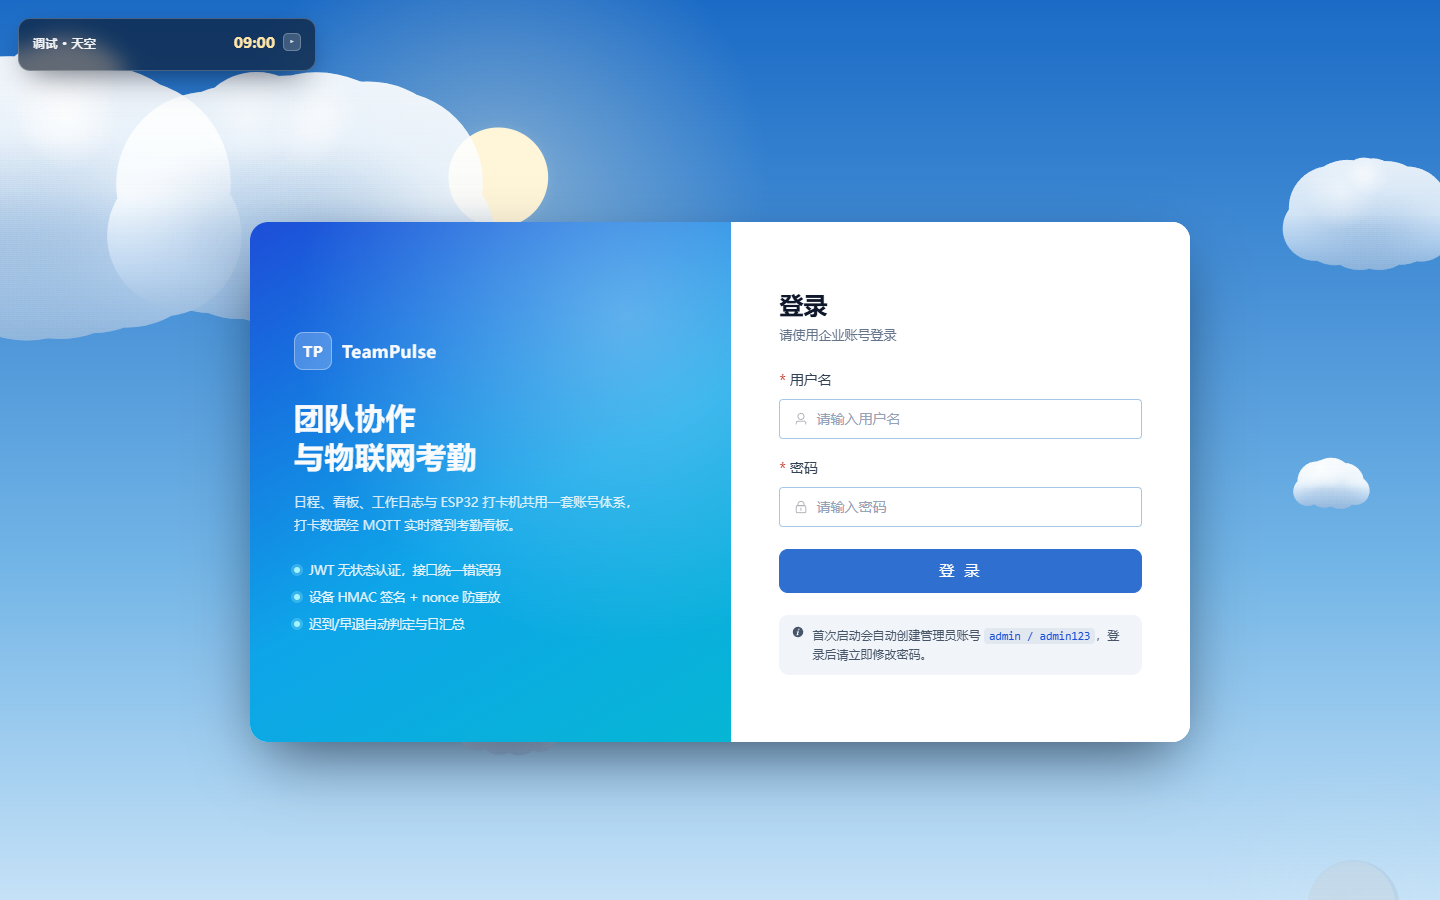
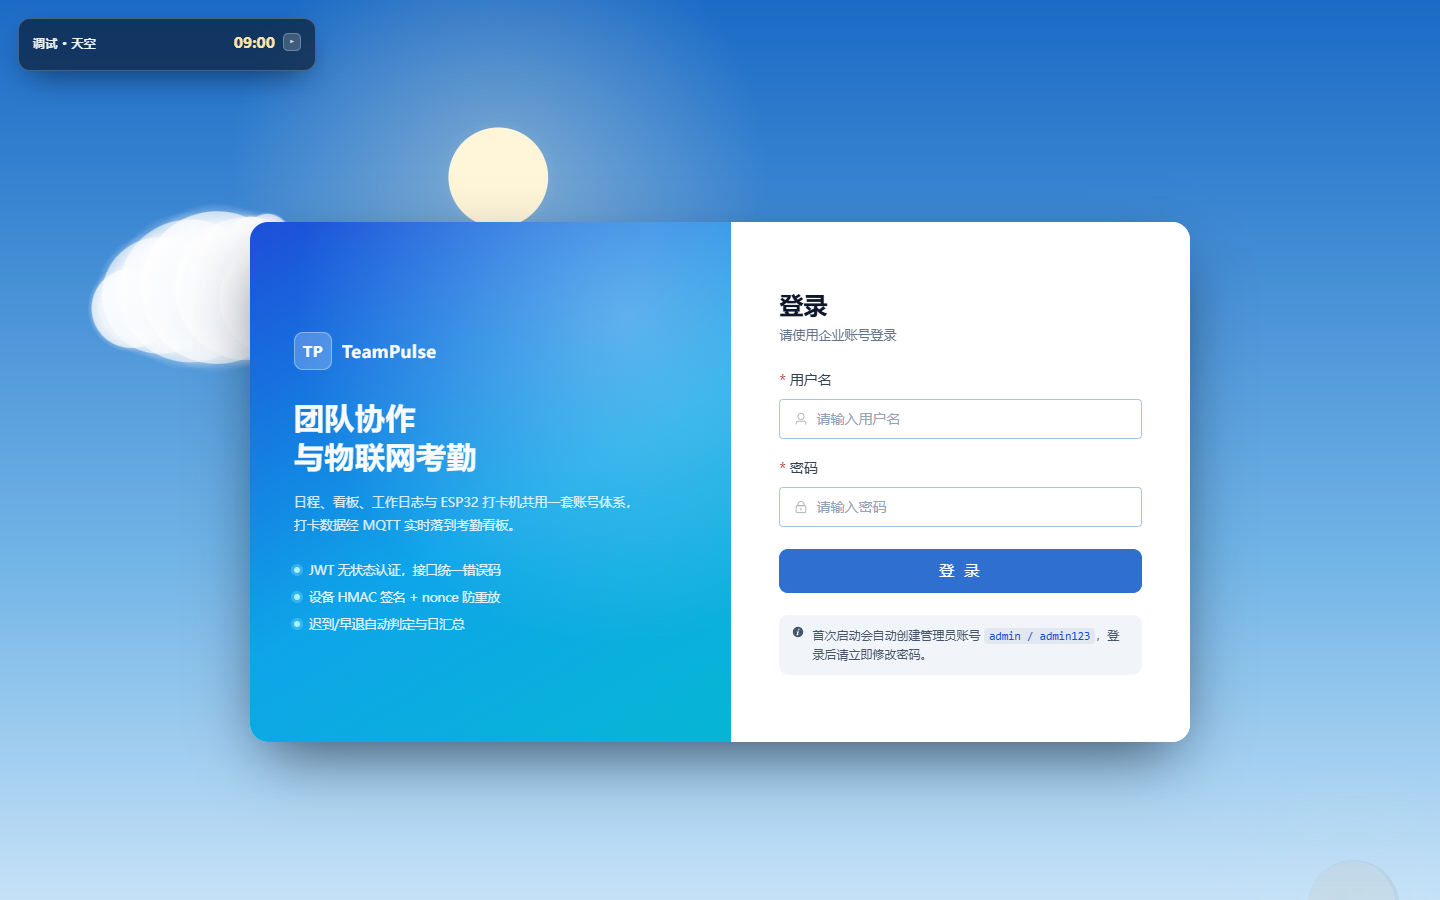
revert(login): 云朵回滚到「参考图之前」的实心云泡版本
按你的要求撤掉参考图那版（单轮廓 + 内部渐变）的画法，恢复到之前的实现：
- makeCloud：三档尺度（22–40 / 44–78 / 84–138），中间大两侧小，泡间距 2.05×base
- 每朵 4~7 个泡，层透明度 0.62–0.88（更通透）
- drawClouds：每个泡画 0.9r 实心核 + 0.78r→r 柔边 + 底部冷色 + 低太阳暖调
- 云数量回到 4~7 朵（按屏宽/340）

保留不变：太阳与月亮共用同一条圆弧（那是另一项需求，未回滚）、
方位东左西右、月亮与月相、调试卡片折叠。

验证：9:00 云=4 可见度 0.92、12:00 同、17:00 0.75、22:00 0（夜间无云），控制台无报错。

Changed region(s): [[0.0, 0.0311, 0.3438, 0.4044], [0.875, 0.1556, 1.0, 0.3111], [0.875, 0.4978, 0.9688, 0.5911]]

diff --git a/frontend/src/components/LoginSky.vue b/frontend/src/components/LoginSky.vue
@@ -117,48 +117,41 @@ function makeStar() {
  *   - 中排更大，顶排 2~3 个"鼓包"，做出顶部起伏
  *   - 每朵云尺度不同（22~150），小的做远景点缀
  */
-function makeCloud(tierHint) {
-  const tier = tierHint ?? Math.random()
-  const base = tier < 0.3 ? rand(18, 32) : tier < 0.68 ? rand(38, 74) : rand(86, 150)
+function makeCloud() {
+  // 云的尺度分三档，避免所有云一样大
+  const tier = Math.random()
+  const base = tier < 0.34 ? rand(22, 40) : tier < 0.74 ? rand(44, 78) : rand(84, 138)
   const hx = rand(0, width)
-  // 小云偏低（远景点缀），大云偏中上
-  const hy = tier < 0.3 ? rand(height * 0.45, height * 0.8) : rand(height * 0.06, height * 0.5)
+  // 主要分布在上半部与两侧，避开被中间卡片挡住的位置
+  const hy = rand(height * 0.05, height * 0.46)
 
+  const n = tier < 0.34 ? 4 : tier < 0.74 ? 5 : 7
   const puffs = []
-  const cols = tier < 0.3 ? 4 : tier < 0.68 ? 6 : 9
-
-  // ① 底排
-  for (let i = 0; i < cols; i++) {
-    const t = cols === 1 ? 0 : i / (cols - 1) - 0.5
-    const k = 0.5 + 0.5 * Math.cos(t * Math.PI * 0.95) // 中间大两边小
-    const r = base * (0.42 + 0.34 * k)
-    puffs.push({ dx: t * base * 2.0 + rand(-2, 2), dy: rand(-2, 2), r })
-  }
-  // ② 中排：错开半个间距，堆出体积
-  for (let i = 0; i < cols - 1; i++) {
-    const t = (i + 0.5) / (cols - 1) - 0.5
-    const k = 0.5 + 0.5 * Math.cos(t * Math.PI * 0.9)
-    const r = base * (0.5 + 0.4 * k)
-    puffs.push({ dx: t * base * 1.7 + rand(-3, 3), dy: -base * 0.42 + rand(-3, 3), r })
-  }
-  // ③ 顶排鼓包
-  const tops = tier < 0.3 ? 1 : tier < 0.68 ? 2 : 3
-  for (let i = 0; i < tops; i++) {
-    const t = rand(-0.28, 0.28)
-    const r = base * rand(0.36, 0.6)
-    puffs.push({ dx: t * base * 1.5, dy: -base * rand(0.7, 0.95), r })
+  for (let i = 0; i < n; i++) {
+    const t = i / (n - 1) - 0.5 // -0.5 .. 0.5
+    // 中间大、两侧小：这是积云最典型的轮廓
+    const k = 0.45 + 0.55 * Math.cos(t * Math.PI * 0.92)
+    const r = base * k
+    puffs.push({
+      dx: t * base * 2.05 + rand(-2, 2),
+      // 圆心高于基线，底边大致齐平
+      dy: -r * 0.5 + rand(-2, 2),
+      r,
+      // 每团云自己的透明度略有差别，叠起来才有体积感
+      a: rand(0.82, 1),
+    })
   }
 
   return {
     hx,
     hy,
-    rx: rand(70, 210),
+    rx: rand(70, 200),
     ry: rand(24, 70),
     x: hx,
     y: hy,
     vx: rand(-0.02, 0.02),
     vy: rand(-0.008, 0.008),
-    alpha: rand(0.86, 1.0),
+    alpha: rand(0.62, 0.88),
     puffs,
   }
 }
@@ -169,13 +162,8 @@ function buildStars() {
 }
 
 function buildClouds() {
-  // 大云 + 远景点缀的小云，比例接近参考图
-  const big = Math.max(3, Math.min(5, Math.round(width / 420)))
-  const small = Math.max(2, Math.min(5, Math.round(width / 420)))
-  clouds = [
-    ...Array.from({ length: big }, () => makeCloud(rand(0.5, 0.95))),
-    ...Array.from({ length: small }, () => makeCloud(rand(0, 0.28))),
-  ]
+  const n = Math.max(4, Math.min(7, Math.round(width / 340)))
+  clouds = Array.from({ length: n }, makeCloud)
 }
 
 /* ------------------------------------------------------------------ 太阳与天色 */
@@ -583,94 +571,54 @@ function drawStars() {
 function drawClouds() {
   if (cloudsVisible <= 0.01) return
   const warm = clamp01((12 - sunAlt) / 14)
-  const warmA = warm > 0.3 ? warm * 0.3 : 0
+  const warmColor = warm > 0.3 ? `rgba(255, 214, 170, ${warm * 0.35})` : null
 
   for (const c of clouds) {
     const a = c.alpha * cloudsVisible
-    if (a <= 0.02) continue
+    if (a <= 0.01) continue
 
-    // ---- 轮廓 + 包围盒
-    const path = new Path2D()
-    let minX = Infinity
-    let minY = Infinity
-    let maxX = -Infinity
-    let maxY = -Infinity
     for (const p of c.puffs) {
       const px = c.x + p.dx
       const py = c.y + p.dy
-      path.moveTo(px + p.r, py)
-      path.arc(px, py, p.r, 0, Math.PI * 2)
-      minX = Math.min(minX, px - p.r)
-      maxX = Math.max(maxX, px + p.r)
-      minY = Math.min(minY, py - p.r)
-      maxY = Math.max(maxY, py + p.r)
-    }
-    const w = maxX - minX
-    const h = maxY - minY
+      const pa = a * p.a
+      const core = p.r * 0.9
 
-    // ---- ① 主体：上白 → 下淡蓝
-    const gBase = ctx.createLinearGradient(0, minY, 0, maxY)
-    gBase.addColorStop(0, `rgba(255,255,255,${a})`)
-    gBase.addColorStop(0.5, `rgba(250,253,255,${a * 0.98})`)
-    gBase.addColorStop(0.78, `rgba(214,232,250,${a * 0.96})`)
-    gBase.addColorStop(1, `rgba(172,203,232,${a * 0.94})`)
-    ctx.fillStyle = gBase
-    ctx.fill(path)
-
-    // ---- ② 内部：底部蓝色阴影 + 顶部反光
-    ctx.save()
-    ctx.clip(path)
-
-    const gShadow = ctx.createLinearGradient(0, minY + h * 0.52, 0, maxY)
-    gShadow.addColorStop(0, 'rgba(150,182,220,0)')
-    gShadow.addColorStop(1, `rgba(126,166,210,${0.5 * a})`)
-    ctx.fillStyle = gShadow
-    ctx.fillRect(minX, minY, w, h)
-
-    const gSky = ctx.createLinearGradient(0, minY, 0, minY + h * 0.55)
-    gSky.addColorStop(0, `rgba(255,255,255,${0.5 * a})`)
-    gSky.addColorStop(1, 'rgba(255,255,255,0)')
-    ctx.fillStyle = gSky
-    ctx.fillRect(minX, minY, w, h * 0.55)
-
-    // ③ 每个鼓包底边的小阴影（只挑大的，控制开销）
-    const bigPuffs = [...c.puffs].sort((p, q) => q.r - p.r).slice(0, 7)
-    for (const p of bigPuffs) {
-      const px = c.x + p.dx
-      const py = c.y + p.dy + p.r * 0.55
-      const g = ctx.createRadialGradient(px, py, 0, px, py, p.r * 0.95)
-      g.addColorStop(0, `rgba(140,176,214,${0.2 * a})`)
-      g.addColorStop(1, 'rgba(140,176,214,0)')
-      ctx.fillStyle = g
+      // ① 实心云泡：每个鼓包都是独立可辨的圆
+      ctx.globalAlpha = pa
+      ctx.fillStyle = '#ffffff'
       ctx.beginPath()
-      ctx.arc(px, py, p.r * 0.95, 0, Math.PI * 2)
+      ctx.arc(px, py, core, 0, Math.PI * 2)
       ctx.fill()
-    }
+      ctx.globalAlpha = 1
 
-    // ④ 顶排高光
-    const topPuffs = [...c.puffs].sort((p, q) => p.dy - q.dy).slice(0, 3)
-    for (const p of topPuffs) {
-      const px = c.x + p.dx - p.r * 0.15
-      const py = c.y + p.dy - p.r * 0.3
-      const g = ctx.createRadialGradient(px, py, 0, px, py, p.r * 0.8)
-      g.addColorStop(0, `rgba(255,255,255,${0.55 * a})`)
+      // ② 柔边：只在最外圈淡出，轮廓保持清晰
+      const g = ctx.createRadialGradient(px, py, core * 0.78, px, py, p.r)
+      g.addColorStop(0, `rgba(255,255,255,${pa})`)
       g.addColorStop(1, 'rgba(255,255,255,0)')
       ctx.fillStyle = g
       ctx.beginPath()
-      ctx.arc(px, py, p.r * 0.8, 0, Math.PI * 2)
+      ctx.arc(px, py, p.r, 0, Math.PI * 2)
       ctx.fill()
-    }
 
-    // 低太阳时的暖色反光
-    if (warmA > 0) {
-      const gWarm = ctx.createLinearGradient(0, minY, 0, maxY)
-      gWarm.addColorStop(0, `rgba(255,214,170,0)`)
-      gWarm.addColorStop(1, `rgba(255,214,170,${warmA * a})`)
-      ctx.fillStyle = gWarm
-      ctx.fillRect(minX, minY, w, h)
-    }
+      // ③ 底部一点冷色，给云体积感
+      const gs = ctx.createRadialGradient(px, py + core * 0.5, 0, px, py + core * 0.1, core)
+      gs.addColorStop(0, `rgba(190, 210, 230, ${pa * 0.35})`)
+      gs.addColorStop(1, 'rgba(190, 210, 230, 0)')
+      ctx.fillStyle = gs
+      ctx.beginPath()
+      ctx.arc(px, py + core * 0.2, core, 0, Math.PI * 2)
+      ctx.fill()
 
-    ctx.restore()
+      if (warmColor) {
+        const gt = ctx.createRadialGradient(px, py + core * 0.6, 0, px, py, p.r)
+        gt.addColorStop(0, warmColor)
+        gt.addColorStop(1, 'rgba(255,214,170,0)')
+        ctx.fillStyle = gt
+        ctx.beginPath()
+        ctx.arc(px, py, p.r, 0, Math.PI * 2)
+        ctx.fill()
+      }
+    }
   }
 }
 
@@ -883,6 +831,7 @@ onMounted(() => {
     get hour() { return renderHour },
     get sun() { return { altitude: sunAlt, azimuth: sunAz, x: sunX, y: sunY, alpha: sunAlpha, color: sunCss } },
     get sky() { return { top: palette.top, mid: palette.mid, bottom: palette.bottom } },
+    get clouds() { return clouds },
     get starsVisible() { return starsVisible },
     get moon() { return { altitude: moonAlt, azimuth: moonAz, fraction: moonFrac, phase: moonPhase, x: moonX, y: moonY, alpha: moonAlpha } },
     // 仅供测试：临时覆盖月相与屏幕位置，验证不同月牙形状的绘制
